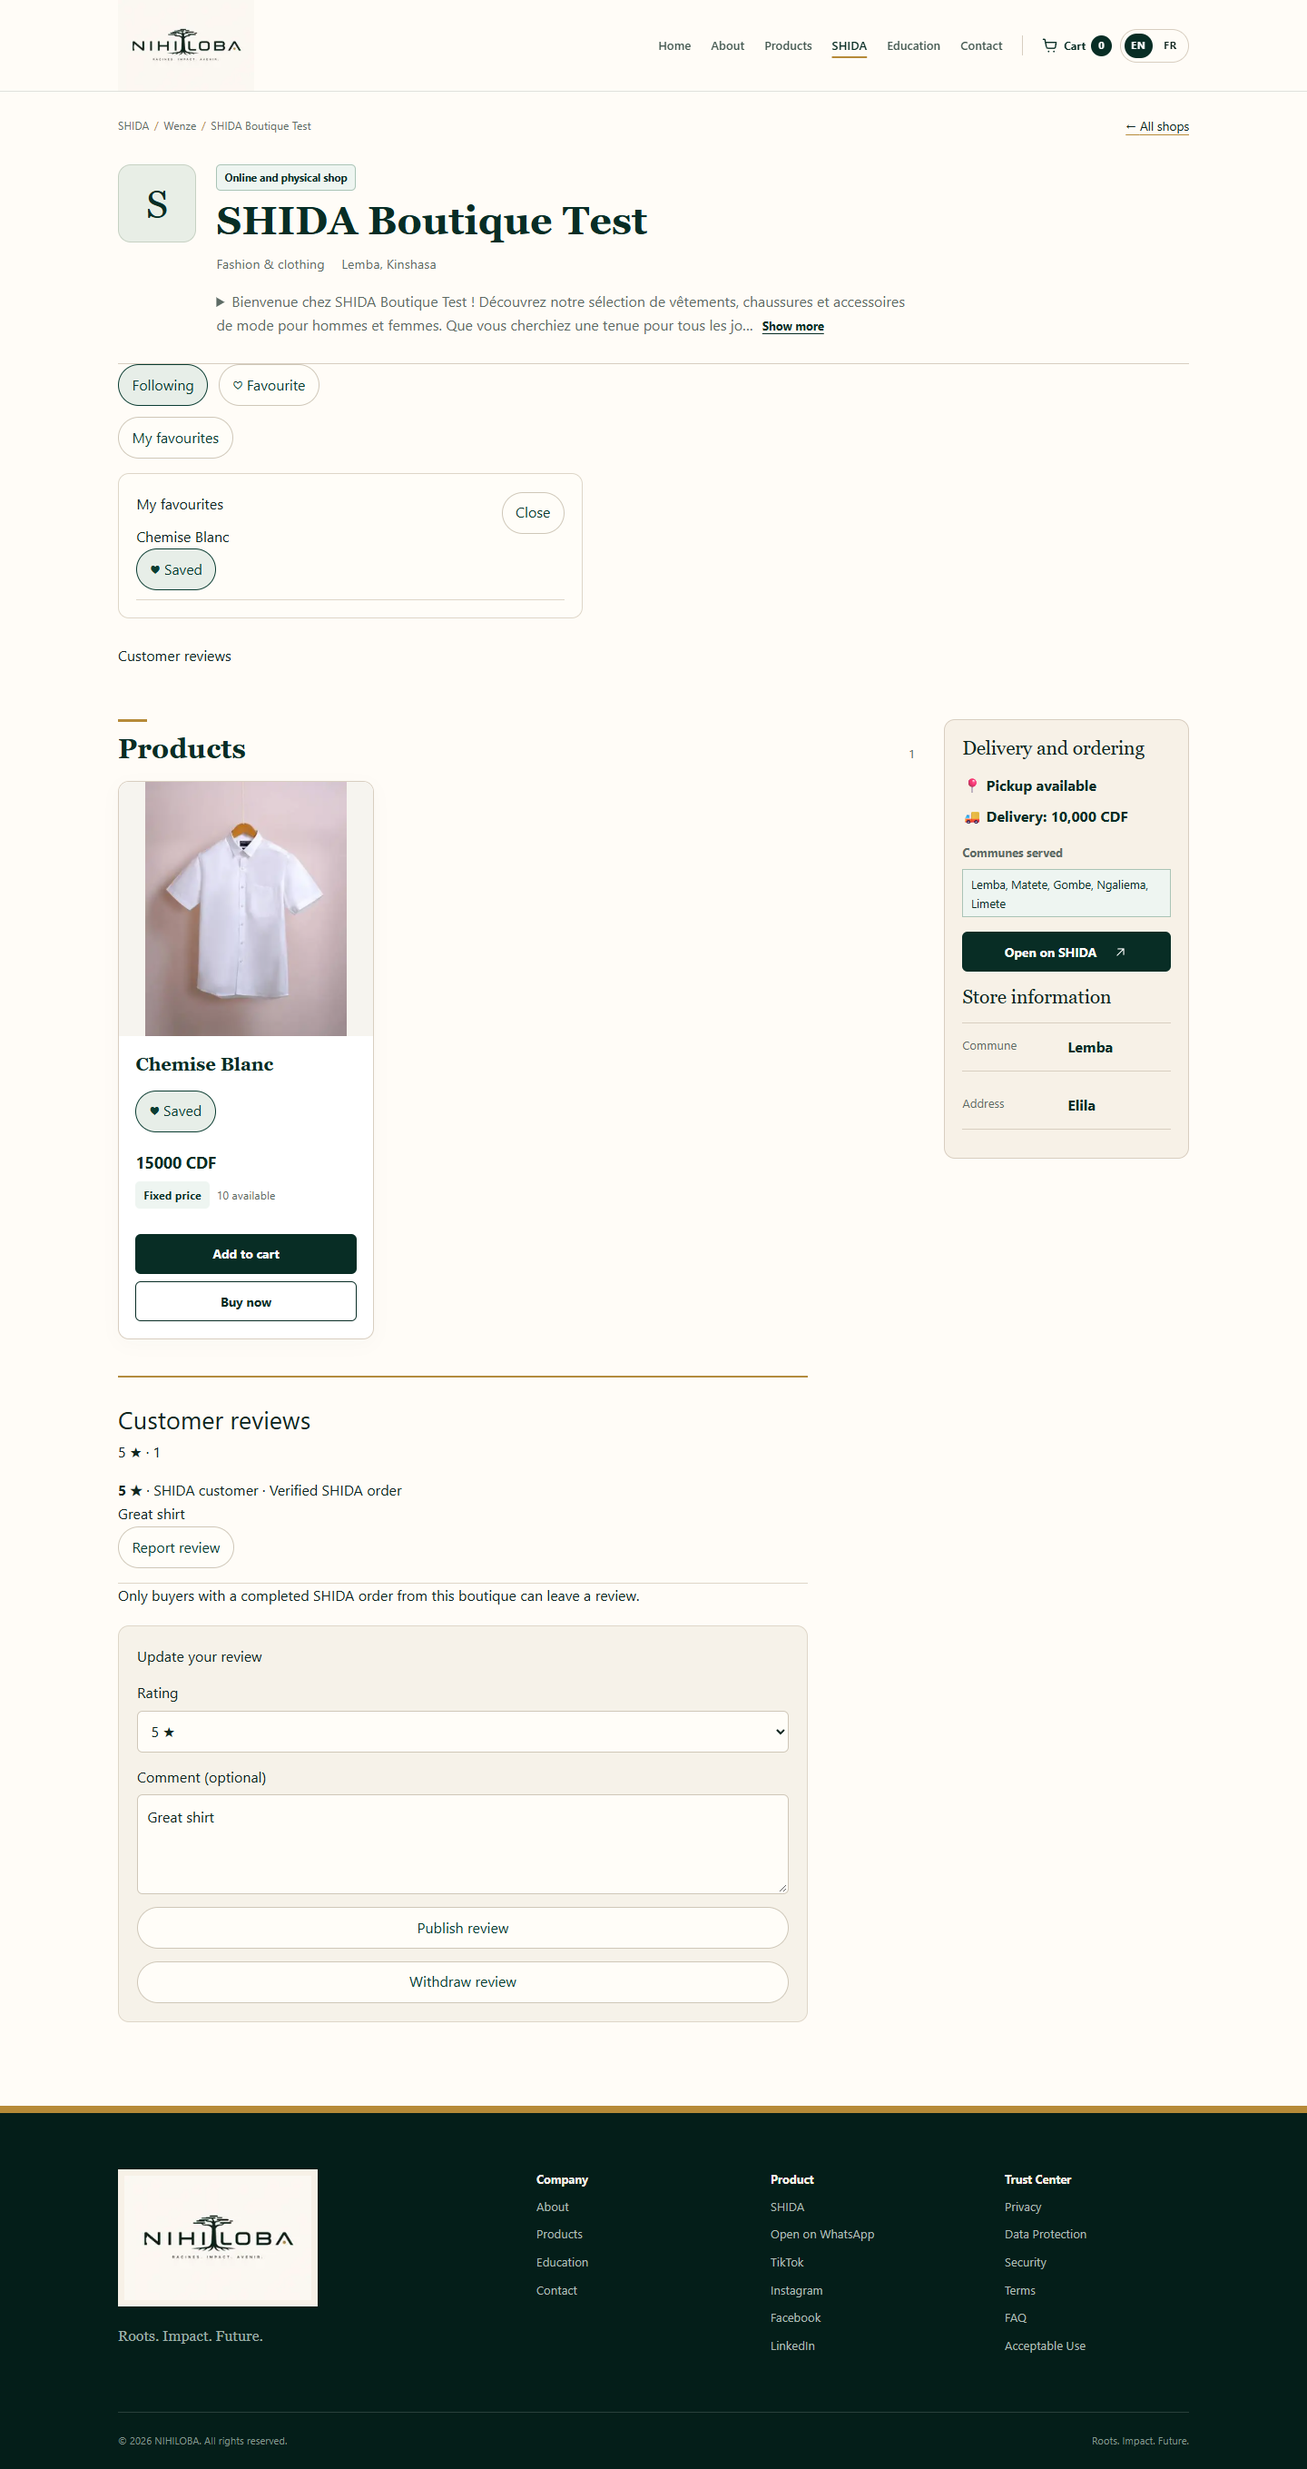
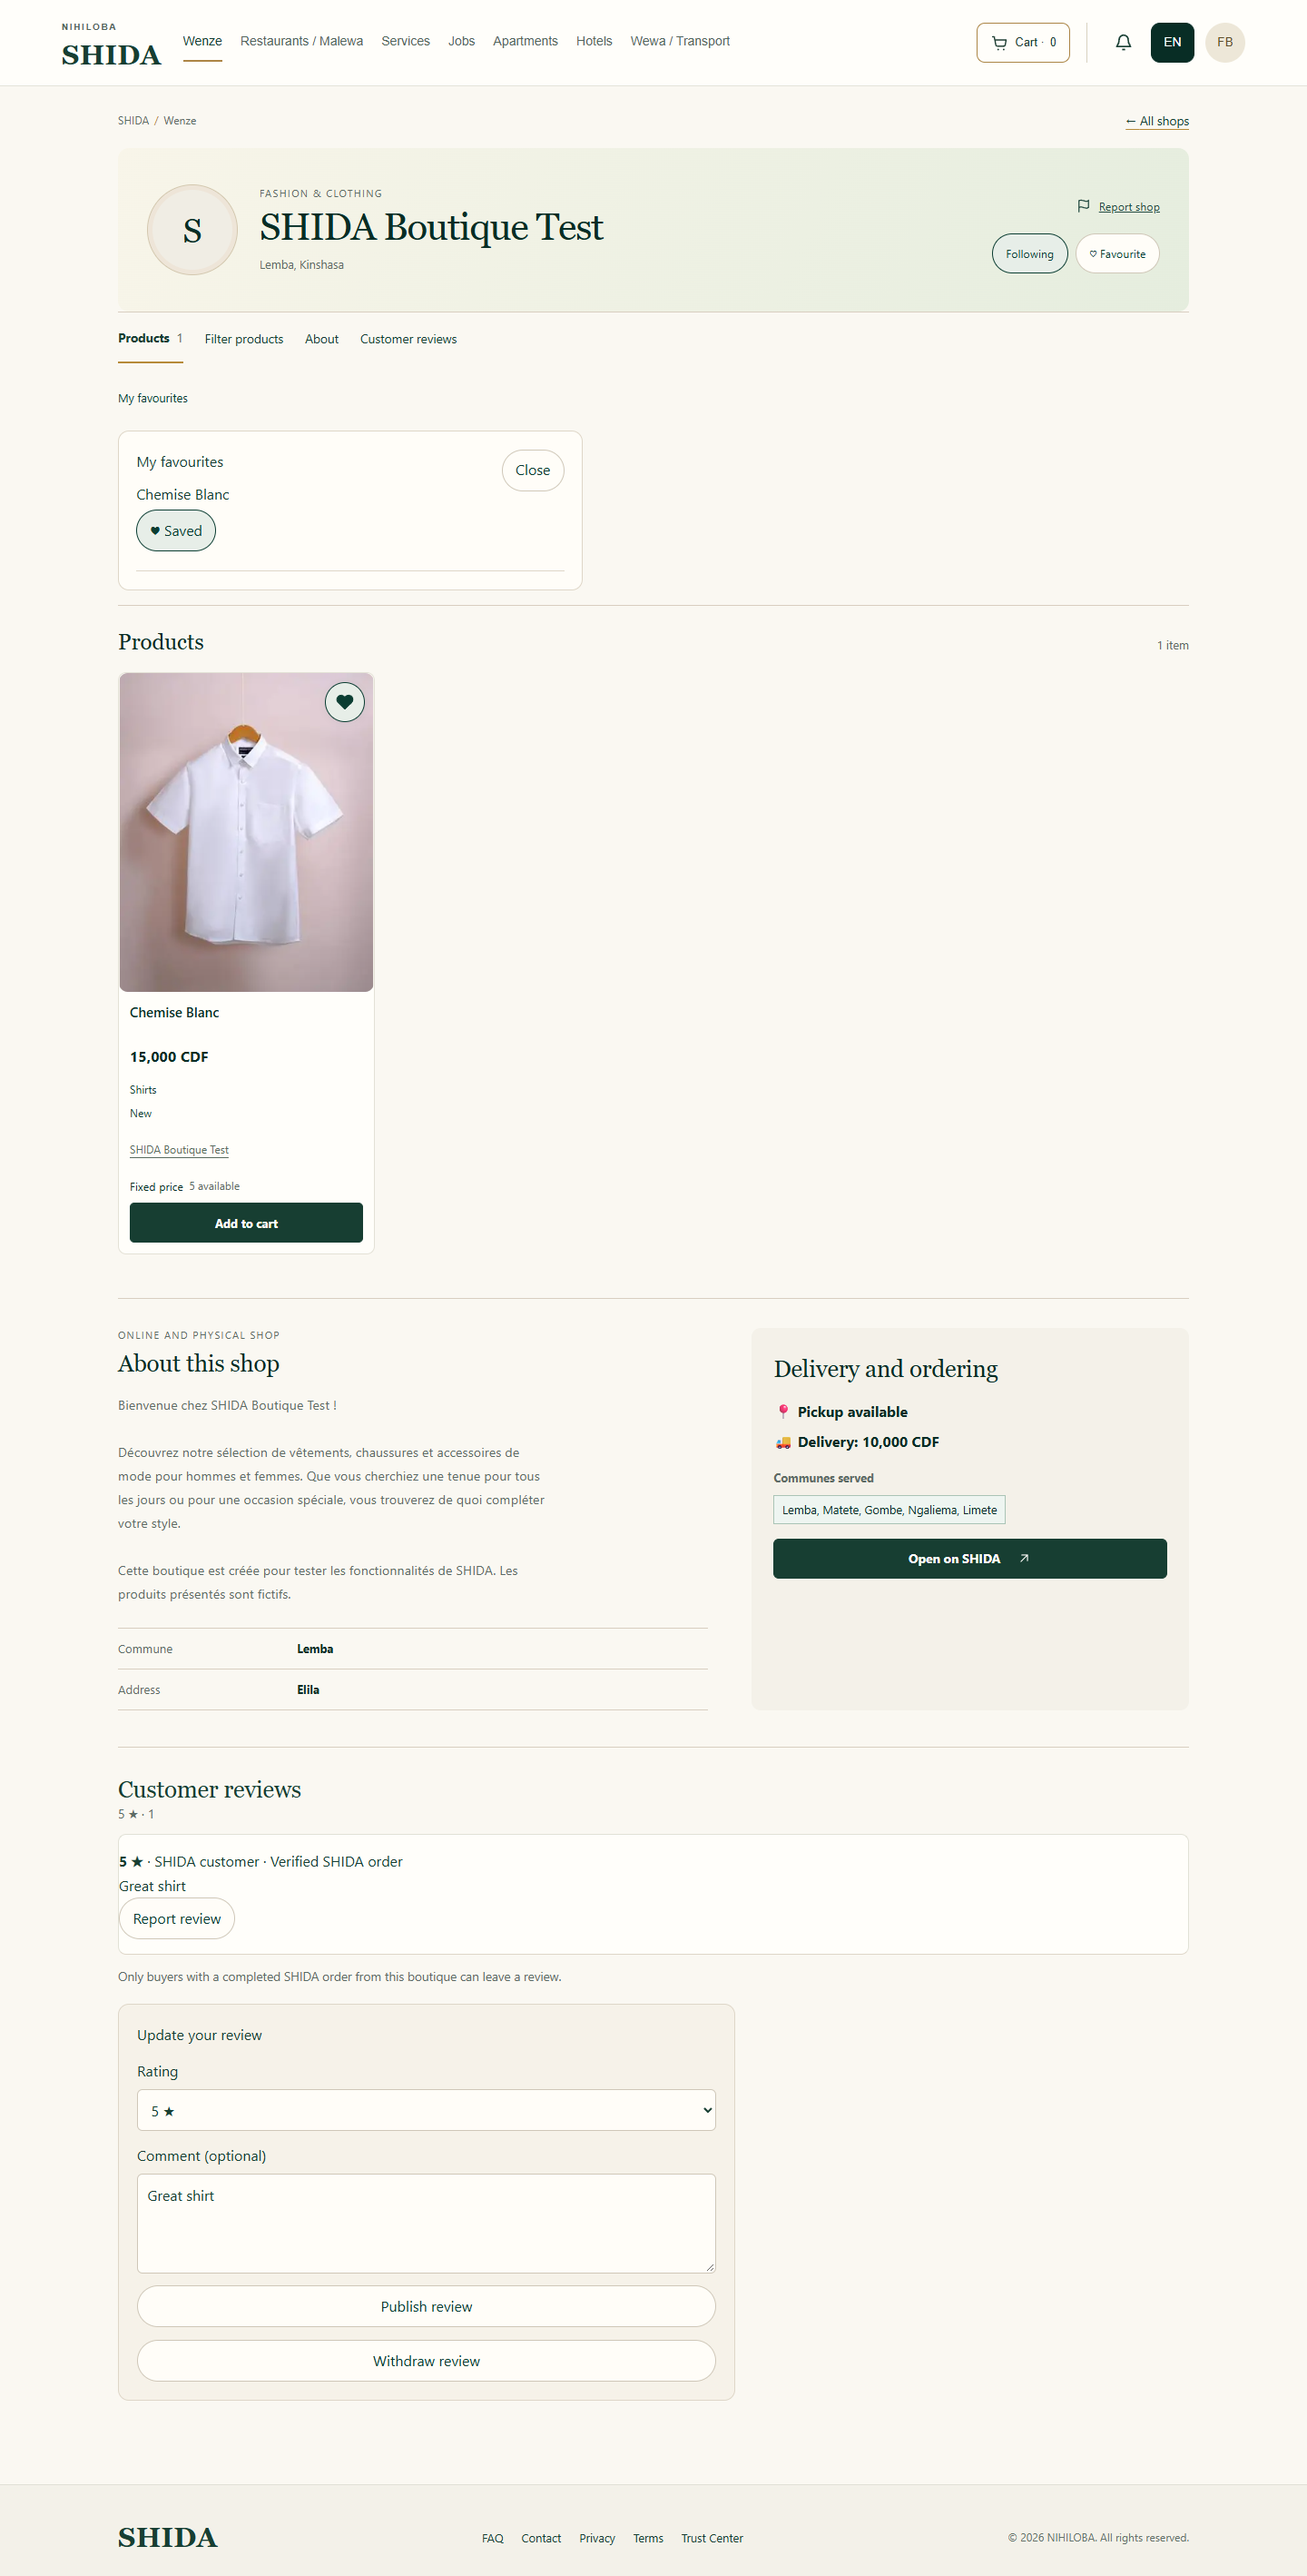
Document marketplace reporting audit validation and release boundaries

diff --git a/docs/wenze-public-refinement-2026-10-31.md b/docs/wenze-public-refinement-2026-10-31.md
@@ -1,0 +1,35 @@
+# Wenze public marketplace and buyer safety — 31 October 2026
+
+## Existing architecture and changes
+
+The public API/client, category catalog, ProductCard, gallery, variant selector, shared cart, fulfillment, WhatsApp handoff, buyer relations and shop reviews remain in place. Shared styles now give fashion portrait images and other products contained square images, compact responsive cards, warm shop identity headers, and clearer product facts. Category chips use the existing category catalog; the duplicate primary category dropdown is removed while advanced filters and search parameters remain. Cards have one Add to Cart action; product details retain Buy Now. Prices use locale-aware formatting for valid numeric money, with legacy malformed values preserved rather than reinterpreted.
+
+Public shop photos now survive the public-client projection and are checked against the existing image URL allowlist. Missing photos use a neutral placeholder. No cover-image storage, public order counter, private financial statistic, invented rating, specification or product review is added. The API currently provides condition and variant labels, not distinct brand/model/RAM/dimension fields; absent facts remain absent. Public reviews still target shops and derive eligibility from completed orders.
+
+## Buyer safety and private reporting
+
+EN/FR/LN/SW safety notices appear on product detail pages with a shop and once in the cart's order/fulfillment confirmation area. This checkout records an order, not a payment; no payment gateway, cash verification, fund custody or refund guarantee is implied. Multi-shop carts provide an exact-shop reporting action for each seller within the single notice.
+
+The short accessible native dialog uses the existing Personal session and private Support proxy. It captures the shop automatically, category, description and optional order reference. It handles sign-in, invalid input, bounded requests, errors, rate limits, duplicate-click prevention, confirmation/reference and account-switch clearing. No insecure evidence upload is offered. Backend reports enter the existing authorized Support queue, not a parallel moderation system. Reports alone never penalize shops. See backend `docs/wenze/WENZE_SHOP_REPORTS_2026_10_31.md` for the ownership, moderation, notification and future product-review audit.
+
+## Validation
+
+- Backend: 8 new report checks, plus 24 existing buyer/review, durable Support ownership and shop-suspension checks. The first HTTP fixture used the wrong allowed test origin; corrected to the test server origin. No security rule was relaxed.
+- Frontend: 54 passing focused gateway, public projection, product facts, discovery, cart and checkout tests. An old cart assertion expected the removed text “Calculated in WhatsApp”; updated to the existing current fulfillment copy and added the safety-notice assertion.
+- Browser: 7 passing scenarios covering report submission, missing optional order, rate-limit retry, correct shop, sign-out clearing, guest authentication, empty search and category filtering; public layouts at 360, 390, 768, 1024 and 1440 pixels.
+- Existing checkout matrix: 16 cases covering four languages, pickup/delivery, desktop/mobile and idempotent retry passed.
+- Production build/TypeScript and targeted lint. All new browser records are isolated fixtures; no test reports, orders, reviews or products are inserted into production.
+
+## Release boundary and rollback
+
+Previous My Shop release `14833e87dc5d75c5a7f726438c62b9b3b91d43c4` was deployed and verified live on Render (`dep-dbivkom7bikc73e0nnc0`), followed by read-only checks of its three tabs.
+
+This new public marketplace/reporting release is not deployed. Specific approval is required by the user brief. Deploy the validated backend before this website so the reporting endpoint exists. No migration or new dependency/configuration is required (backend head remains 0213). Urgent WhatsApp templates remain enabled and unchanged.
+
+Rollback website to `14833e8` first; backend baseline is `360d1128`. Preserve any persisted reports: they are ordinary private Support tickets. After an approved deployment, verify exact live commits and perform read-only checks with existing public records. Do not submit a real complaint merely for a production smoke test.
+
+Product-specific reviews, secure report attachments, unsupported product specifications and seller-uploaded cover images are deliberately outside this release. Existing legacy buyer-review/follow wording still uses the original EN/FR implementation for some LN/SW controls; new safety/reporting copy supports all four languages.
+
+Three existing buyer browser tests also passed against read-only public shop data: private follows/favourites, eligible shop reviews and stale-cart/stock conflicts. All browser mutations were intercepted. Their screenshot reviews are test fixtures, not production ratings.
+
+Evidence: [desktop shop](evidence/wenze-public/1440-WNZ_FIXTURE.png), [mobile reporting](evidence/wenze-public/390-report.png), [desktop product](evidence/wenze-public/1440-WNP_PHONE.png), [mobile product](evidence/wenze-public/360-WNP_SHIRT.png).
